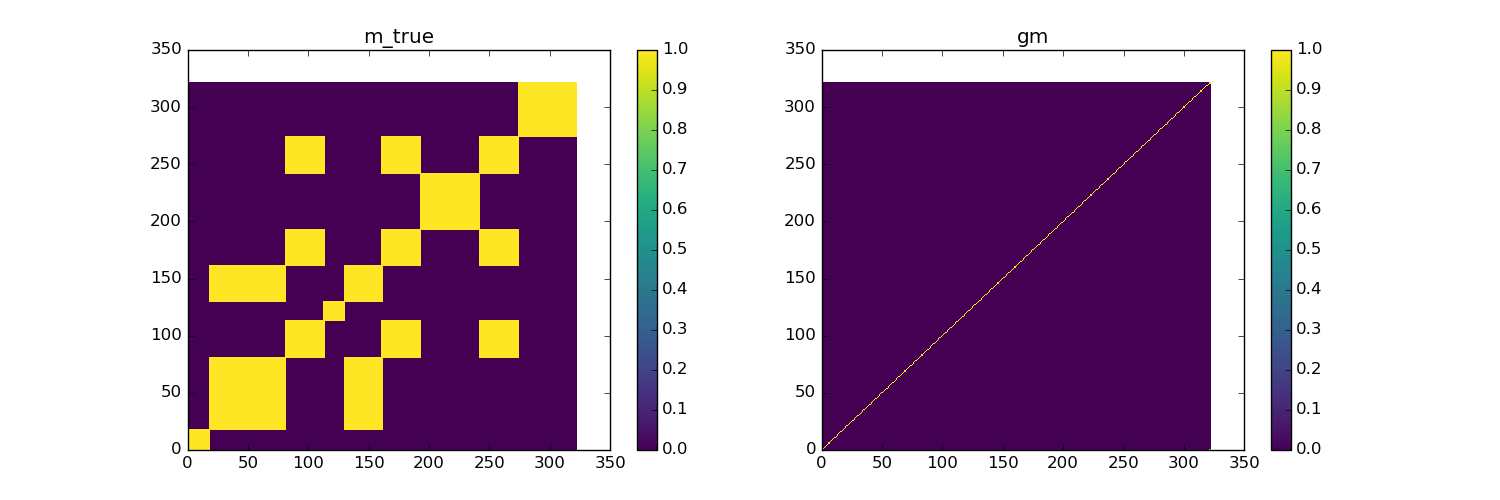
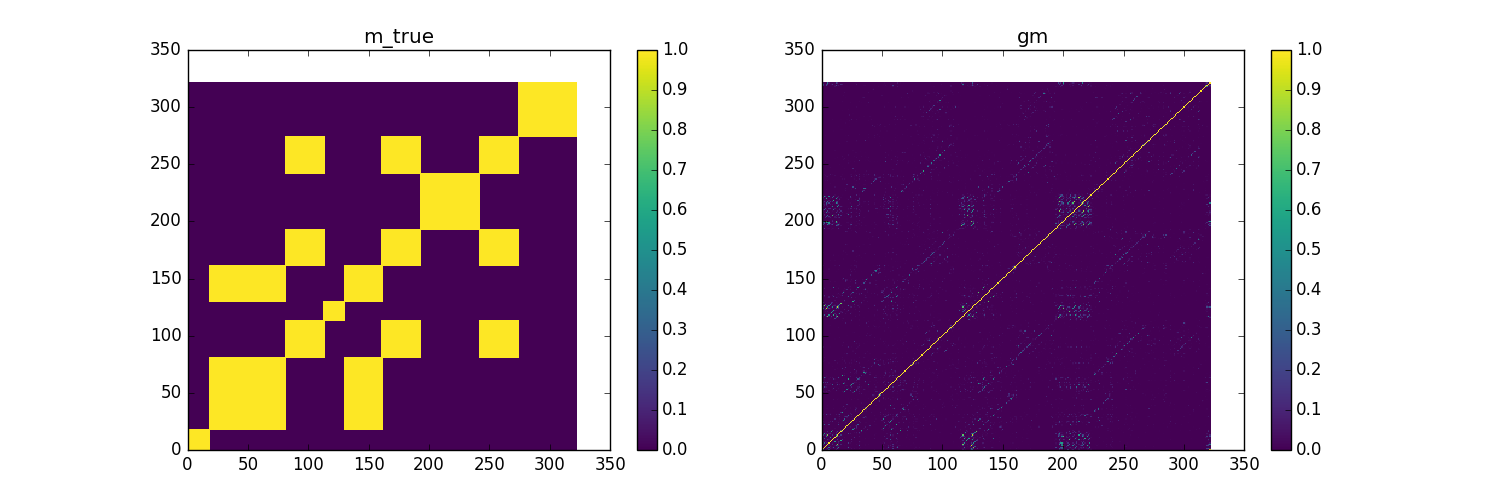
init changing update method

diff --git a/model/modelOnMusic.py b/model/modelOnMusic.py
@@ -10,7 +10,7 @@ sys.path.append('../src')
 import laplacian, gradient, plotGraph, librosaF
 import RecurrenceMatrix as RM
 
-epco, alpha, res, sigmaMul = 30, 2000, [], 0.1
+epco, alpha, res, sigmaMul = 10, 2000, [], 1000
 np.random.seed(123)
 
 sigmaPath = "./sigmas/"
@@ -74,6 +74,11 @@ cqt = librosa.cqt(y=y, sr=sr)
 print "Perform sync"
 cqt_med, frameConversion = librosaF.sync(cqt, beats, aggregate=np.median)
 cqt_med = cqt_med.T
+print "saving cqt_med... "
+np.save("cqt_med.npy", cqt_med)
+
+# print "Loading cqt_med... "
+# cqt_med = np.load('./cqt_med.npy')
 
 print "Perform loadInterval2Frame"
 interval = loadInterval2Frame("../data/anno/698/parsed/textfile1_uppercase.txt", sr, frameConversion)
@@ -89,35 +94,39 @@ L = scipy.sparse.csgraph.laplacian(gm, normed=True)
 print "gm.shape: ", gm.shape
 print gm
 
-# m_true = RM.label2RecurrenceMatrix("../data/2.jams", gm.shape[0], interval)
-# L_true = scipy.sparse.csgraph.laplacian(m_true, normed=True)
+m_true = RM.label2RecurrenceMatrix("../data/2.jams", gm.shape[0], interval)
+L_true = scipy.sparse.csgraph.laplacian(m_true, normed=True)
 
-# print "gm.shape, m_true.shape: ", gm.shape, m_true.shape
-# print "gm is symmetric: ", (gm==np.transpose(gm)).all()
-# print "m_true is symmetric: ", (m_true==np.transpose(m_true)).all()
+print "gm.shape, m_true.shape: ", gm.shape, m_true.shape
+print "gm is symmetric: ", (gm==np.transpose(gm)).all()
+print "m_true is symmetric: ", (m_true==np.transpose(m_true)).all()
 
-# plotGraph.plot2('./realMusicRMatrix2', m_true, "m_true", gm, "gm")
-# plotGraph.plot2('./realMusicLaplacian2', L_true, "L_true", L, "L")
+plotGraph.plot2('./realMusicRMatrix2', m_true, "m_true", gm, "gm")
+plotGraph.plot2('./realMusicLaplacian2', L_true, "L_true", L, "L")
 
-# for i in xrange(epco):
-#   accu = gradient.allDLoss(sigmas, L, L_true, gm, cqt_med)
-#   sigmas = sigmas - alpha * accu
-#   sigmas = np.around(sigmas, decimals = 10)
+for i in xrange(epco):
+  accu = gradient.allDLoss(sigmas, L, L_true, gm, cqt_med)
+  sigmas = sigmas - alpha * accu
+  sigmas = np.around(sigmas, decimals = 10)
+  print "sigmas:"
+  print sigmas
 
-#   filename = sigmaPath + namePrefix + "_step" + str(i) + ".npy"
-#   print "saving sigmas to: ", filename
-#   np.save(filename, sigmas)
+  filename = sigmaPath + namePrefix + "_step" + str(i) + ".npy"
+  print "saving sigmas to: ", filename
+  np.save(filename, sigmas)
 
-#   gm = RM.feature2GaussianMatrix(cqt_med, sigmas)
-#   L = scipy.sparse.csgraph.laplacian(gm, normed=True)
+  gm = RM.feature2GaussianMatrix(cqt_med, sigmas)
+  L = scipy.sparse.csgraph.laplacian(gm, normed=True)
+  print "gm"
+  print gm
 
-#   filename = figurePath + namePrefix + "_epch" + str(i) + ".png"
-#   plotGraph.plot2(filename, m_true, "m_true", gm, "gm")
+  filename = figurePath + namePrefix + "_epch" + str(i) + ".png"
+  plotGraph.plot2(filename, m_true, "m_true", gm, "gm")
 
-#   err = 0.5 * np.linalg.norm(L_true-L)**2
-#   res += [err]
+  err = 0.5 * np.linalg.norm(L_true-L)**2
+  res += [err]
 
-# print res
+print res
 
 
 

diff --git a/src/gradient.py b/src/gradient.py
@@ -57,7 +57,7 @@ def L_analyticalGradient(m, x, y):
     for j in xrange(i+1, limy):
       # print "d[i], d[j]", (d[i], d[j])
       if (i==x and j==y) or (i==y and j==x):
-        val = -1/(d[i]*d[j])**0.5 + m[i,j]*(d[i]+d[j])/(2*(d[i]*d[j])**1.5)
+        val = -1/((d[i]*d[j])**0.5) + m[i,j]*(d[i]+d[j])/(2*(d[i]*d[j])**1.5)
         res[i,j] = val
         res[j,i] = val
       elif i==x or i==y:
@@ -78,6 +78,7 @@ def df1(x):
 def w_ij(i, j, sij, feature):
   diff = np.linalg.norm(feature[i]-feature[j])
   val = np.exp(-((diff/sij)**2))
+  # print "diff", str(diff), " sij", sij, " val", val
   return val
 
 def dw_ij(i, j, sij, feature):
@@ -92,8 +93,8 @@ def allDLoss(sigma, L, L_true, RMatrix, features):
     for j in xrange(i+1, len(L)): #no i==j, due to dw is all zero
       dL = L_analyticalGradient(RMatrix,i,j)
       dw = dw_ij(i,j,sigma[i,j],features)
-      accu += 2 * (L_true - L) * (dL * dw) #due to its symmetric properity
-  return -1 * accu
+      accu += 2 * (dL * dw) #due to its symmetric properity
+  return -1 * (L_true - L) * accu
 
 # def allDLossII(sigma, L, L_true, RMatrix, features):
 #   # m = np.array([[1,2,3,4,5],[2,1,2,3,4],[3,2,1,1,1],[4,3,1,1,1],[5,4,1,1,1]]).astype(float)
